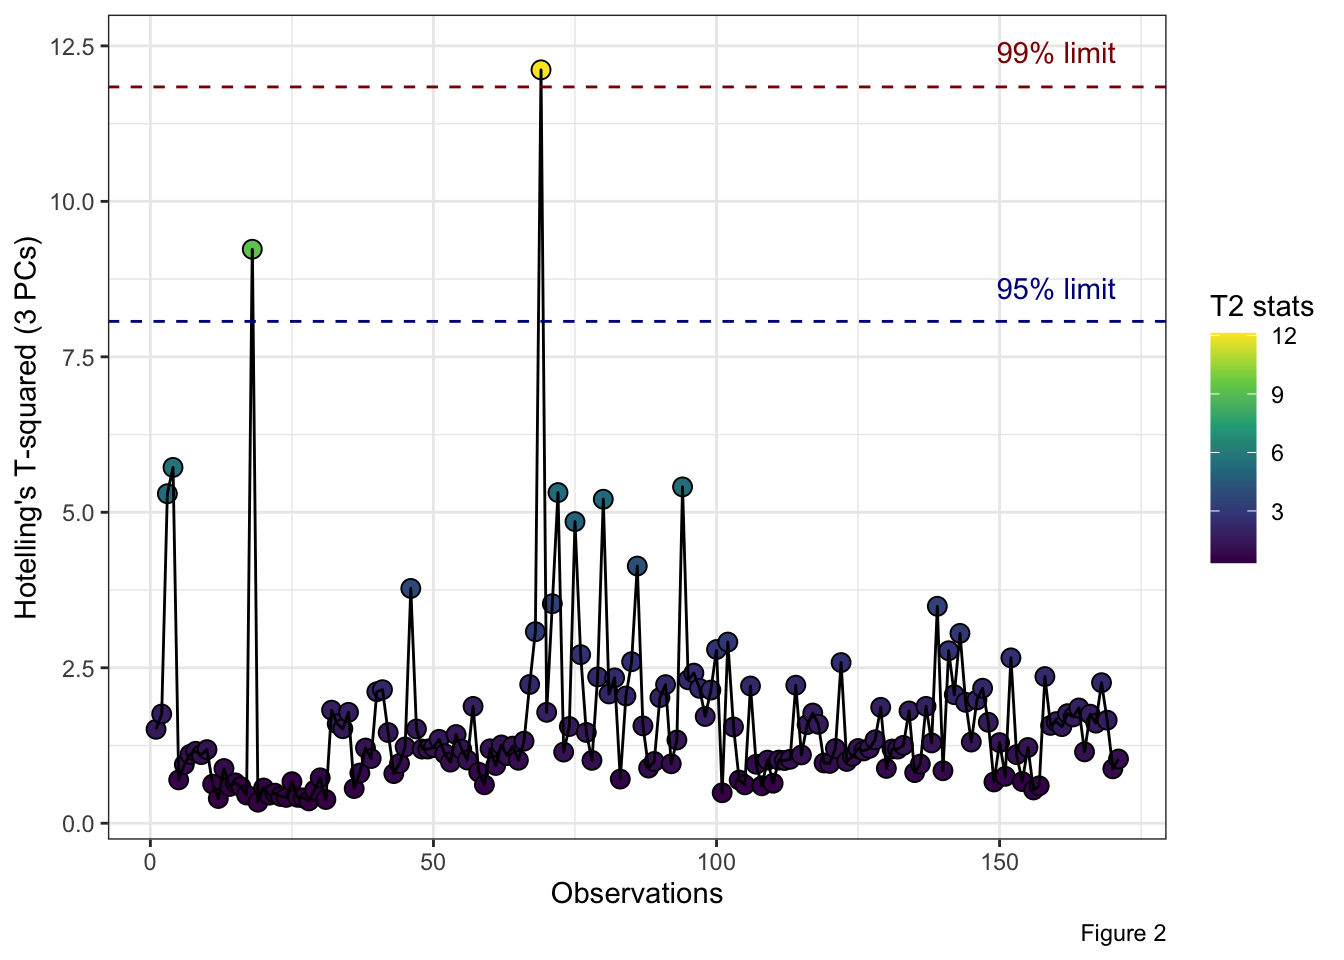
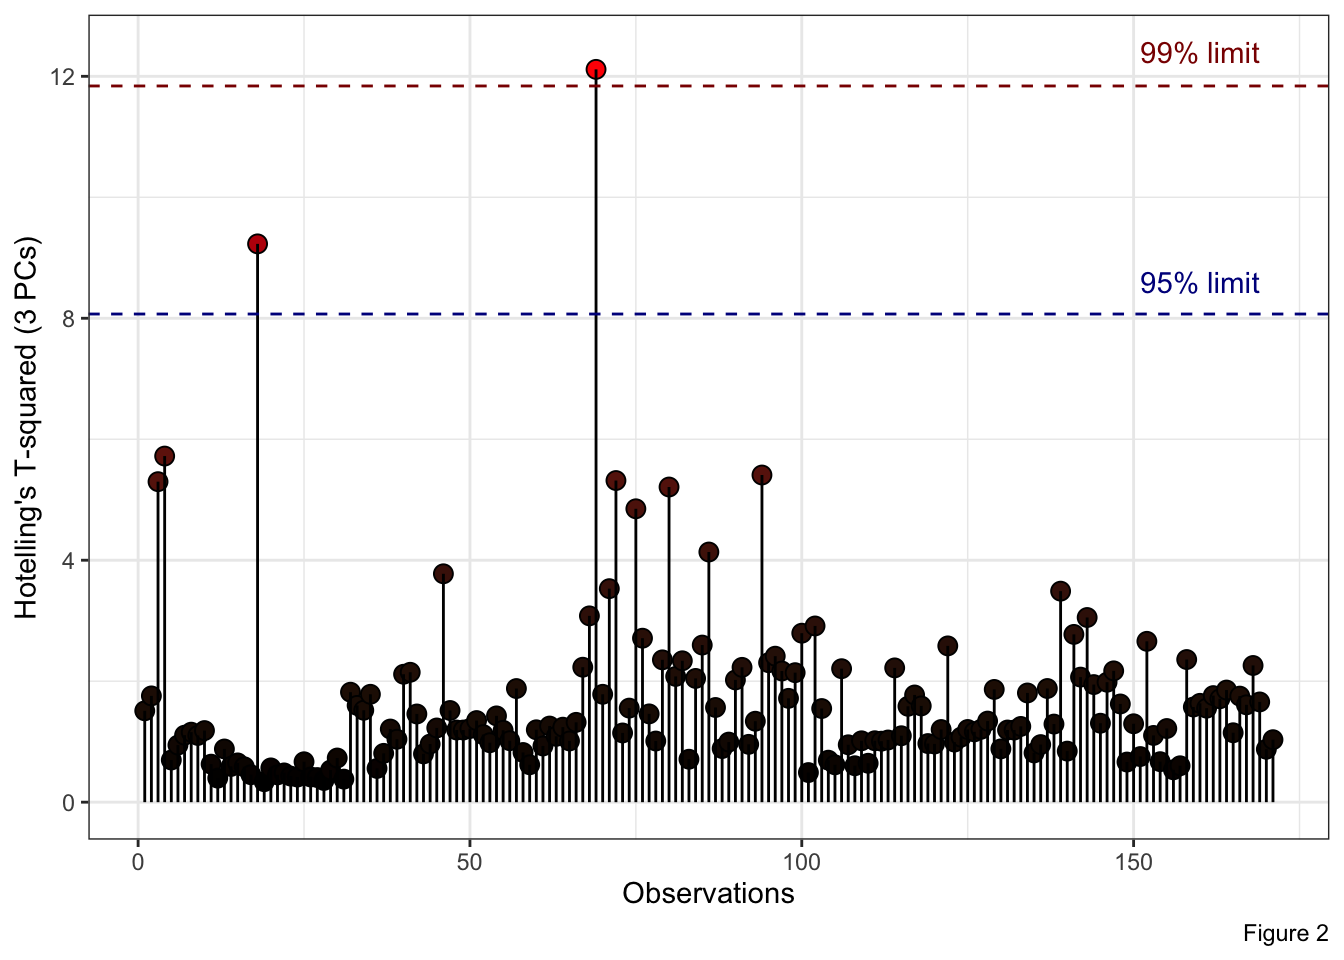
Updates README

diff --git a/README.md b/README.md
@@ -8,8 +8,8 @@
 
 The HotellingEllipse package computes the Hotelling’s T<sup>2</sup>
 Statistic and provides the values of the confidence ellipse semi-minor
-semi-major axes for a bivariate scatterplot, at 95% and 99% confidence
-levels.
+and semi-major axes for a bivariate scatterplot, at 95% and 99%
+confidence levels.
 
 ## Installation
 
@@ -29,29 +29,28 @@ Component Analysis (PCA) from a LIBS spectral dataset
 `HotellingEllipse()` we calculate the Hotelling T<sup>2</sup> statistic
 for the first two principal components, as well as the values of the
 semi-axes for drawing the confidence ellipse. And finally, using
-`ggplot()` and `ggforce::geom_ellipse()` we plot the scatterplot of PCA
-scores and the corresponding Hotelling’s T<sup>2</sup> ellipses at 99%
-and 95% confidence levels.
+`ggplot2::ggplot()` and `ggforce::geom_ellipse()` we plot the
+scatterplot of PCA scores and the corresponding Hotelling’s
+T<sup>2</sup> ellipses at 99% and 95% confidence levels.
 
 **Step 1.** Load the packages.
 
 ``` r
 library(HotellingEllipse)
 library(tidyverse)
-devtools::load_all()
 ```
 
 **Step 2.** Load LIBS dataset into R session.
 
 ``` r
-data("LIBS_spec")
+data("specData")
 ```
 
 **Step 3.** Perform principal component analysis.
 
 ``` r
 set.seed(123)
-pca_mod <- LIBS_spec %>%
+pca_mod <- specData %>%
   select(where(is.numeric)) %>%
   FactoMineR::PCA(scale.unit = FALSE, graph = FALSE)
 ```
@@ -79,14 +78,14 @@ pca_scores <- pca_mod %>%
 #> # … with 161 more rows
 ```
 
-**Step 5.** Run `HotellingEllipse()` for the first two principal
-components (k = 2). We want to compute the principal axes of the
-ellipses (denoted **a** and **b**) when the first principal component,
-PC1, is on the *x*-axis (pcx = 1) and, the second principal component,
-PC2, is on the *y*-axis (pcy = 2).
+**Step 5.** Run `ellipseParam()` for the first two principal components
+(k = 2). We want to compute the principal axes of the ellipses (denoted
+**a** and **b**) when the first principal component, PC1, is on the
+*x*-axis (pcx = 1) and, the second principal component, PC2, is on the
+*y*-axis (pcy = 2).
 
 ``` r
-res_2PCs <- HotellingEllipse(data = pca_scores, k = 2, pcx = 1, pcy = 2)
+res_2PCs <- ellipseParam(data = pca_scores, k = 2, pcx = 1, pcy = 2)
 ```
 
 ``` r
@@ -147,11 +146,11 @@ pca_scores %>%
 T<sup>2</sup> for more than two principal components, is to plot
 Observations *vs.* Hotelling’s T<sup>2</sup> where the confidence limits
 are plotted as a line. Thus, observations below the two lines are within
-the T<sup>2</sup> limits. In the example below, `HotellingEllipse()` is
-ran with the first three principal components (i.e., k = 3).
+the T<sup>2</sup> limits. In the example below, `ellipseParam()` is ran
+with the first three principal components (i.e., k = 3).
 
 ``` r
-res_3PCs <- HotellingEllipse(data = pca_scores, k = 3)
+res_3PCs <- ellipseParam(data = pca_scores, k = 3)
 ```
 
 ``` r
@@ -159,10 +158,10 @@ tibble(
   T2 = pluck(res_3PCs, "Tsquared", "statistic"), 
   obs = 1:nrow(pca_scores)
   ) %>%
-  ggplot(aes(x = obs, y = T2)) +
-  geom_point(aes(fill = T2), shape = 21, size = 3, color = "black") +
-  geom_line() +
-  scale_fill_viridis_c(option = "viridis") +
+  ggplot() +
+  geom_point(aes(x = obs, y = T2, fill = T2), shape = 21, size = 3, color = "black") +
+  geom_segment(aes(x = obs, y = T2, xend = obs, yend = 0), size = .5) +
+  scale_fill_gradient(low = "black", high = "red", guide = "none") +
   geom_hline(yintercept = pluck(res_3PCs, "cutoff.99pct"), linetype = "dashed", color = "darkred", size = .5) +
   geom_hline(yintercept = pluck(res_3PCs, "cutoff.95pct"), linetype = "dashed", color = "darkblue", size = .5) +
   annotate("text", x = 160, y = 12.4, label = "99% limit", color = "darkred") +
@@ -173,12 +172,12 @@ tibble(
 
 <img src="man/figures/README-unnamed-chunk-13-1.png" width="90%" height="90%" />
 
-**Note:** Run the function `HotellingEllipseCoord()`, if you only want
-the ellipse *x* and *y* coordinates. By default the confidence level
+**Note:** Run the function `ellipseCoord()`, if you only want the
+ellipse *x* and *y* coordinates. By default the confidence level
 `confi.limit` is set at 95%.
 
 ``` r
-xy_coord <- HotellingEllipseCoord(
+xy_coord <- ellipseCoord(
     data = pca_scores, 
     pcx = 1, 
     pcy = 2, 
@@ -220,7 +219,7 @@ PC1-PC3 subspace.
 
 ``` r
 xy_coord_2 <- 
-  HotellingEllipseCoord(
+  ellipseCoord(
     data = pca_scores, 
     pcx = 1, 
     pcy = 3, 
@@ -230,6 +229,3 @@ xy_coord_2 <-
 ```
 
 <img src="man/figures/README-unnamed-chunk-17-1.png" width="90%" height="90%" />
-
-Please do not hesitate to contact me if you have any comments or
-suggestions.
